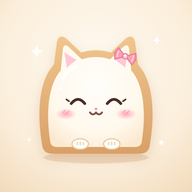
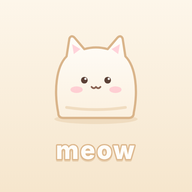
图标：换回淡淡的吐司猫，下面加奶油字 meow
Claude-Session: https://claude.ai/code/session_01Kju9AuUhCjB8j9UKvKX9Kv

diff --git a/index.html b/index.html
@@ -98,8 +98,8 @@
       if (ok) navigator.serviceWorker.register("./sw.js", { scope: "./", updateViaCache: "none" }).catch(function () {});
     })();
   </script>
-  <link rel="icon" href="icons/icon-192.png?v=7" type="image/png" sizes="192x192">
-  <link rel="apple-touch-icon" href="icons/apple-touch-icon.png?v=7">
+  <link rel="icon" href="icons/icon-192.png?v=8" type="image/png" sizes="192x192">
+  <link rel="apple-touch-icon" href="icons/apple-touch-icon.png?v=8">
   <title>Meow</title>
   <!-- 首帧与浅色开屏同色，避免 style.css 加载前闪色 -->
   <style>

diff --git a/sw.js b/sw.js
@@ -1,4 +1,4 @@
-const CACHE_NAME = "xxj-pwa-v297";
+const CACHE_NAME = "xxj-pwa-v298";
 const KEEPALIVE_PERIODIC_TAG = "xxj-keepalive";
 const SCHEDULE_IDB = "xxj_sw_schedule";
 const SCHEDULE_STORE = "due";
